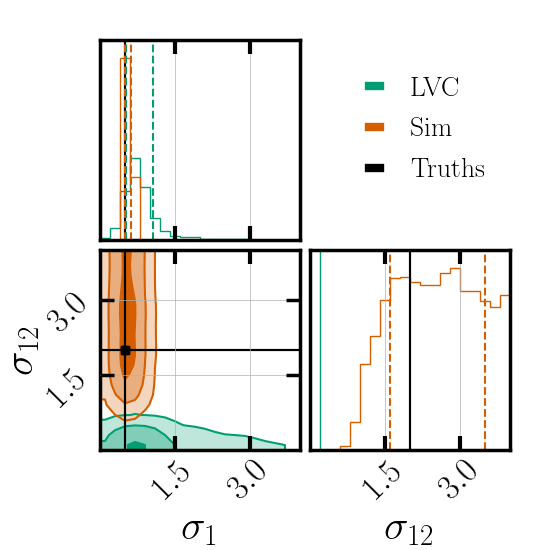
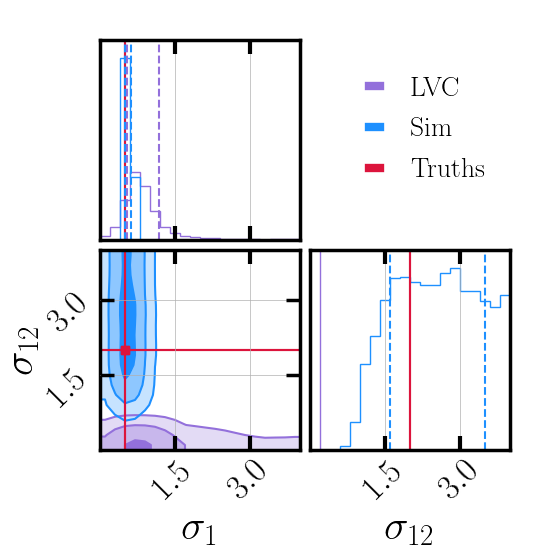
update images

diff --git a/population_inference/plotter.py b/population_inference/plotter.py
@@ -112,9 +112,18 @@ def get_colors(num_colors: int, alpha: Optional[float] = 1) -> List[List[float]]
     return cs
 
 
-COLS = {label: c for label, c in
-        zip(['mix', 'lvc', 'sim', 'agn', 'truths'], get_colors(5))}
-COLS['truths'] = 'black'
+COLS = dict(
+    mix='seagreen',
+    lvc='mediumpurple',
+    sim='dodgerblue',
+    agn='orangered',
+    truths='crimson'
+)
+
+
+# COLS = {label: c for label, c in
+#         zip(['mix', 'lvc', 'sim', 'agn', 'truths'], get_colors(5))}
+# COLS['truths'] = 'black'
 
 
 def overlaid_corner(samples_list, sample_labels, params,
